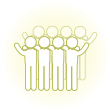
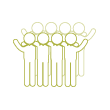
update

Changed region(s): [[0.1091, 0.1636, 0.9, 0.8455]]

diff --git a/EscapeRoom/ES-fee.html b/EscapeRoom/ES-fee.html
@@ -305,7 +305,7 @@
                     <h2>包場</h2>
                     <p class="feePhoneText-1">平日1599元/場 <br>假日1999元/場 </p class="">
                 </div>
-                <div class="col-12 feePhonecontan"><img src="./img/fee-Charter-phone.png" alt="">
+                <div class="col-12 feePhonecontan"><img src="./img/fee-fight-phone.png" alt="">
                     <h2>併組</h2>
                     <p class="feePhoneText-1">平日250元/場 <br>假日300元/場 </p class="">
                 </div>
